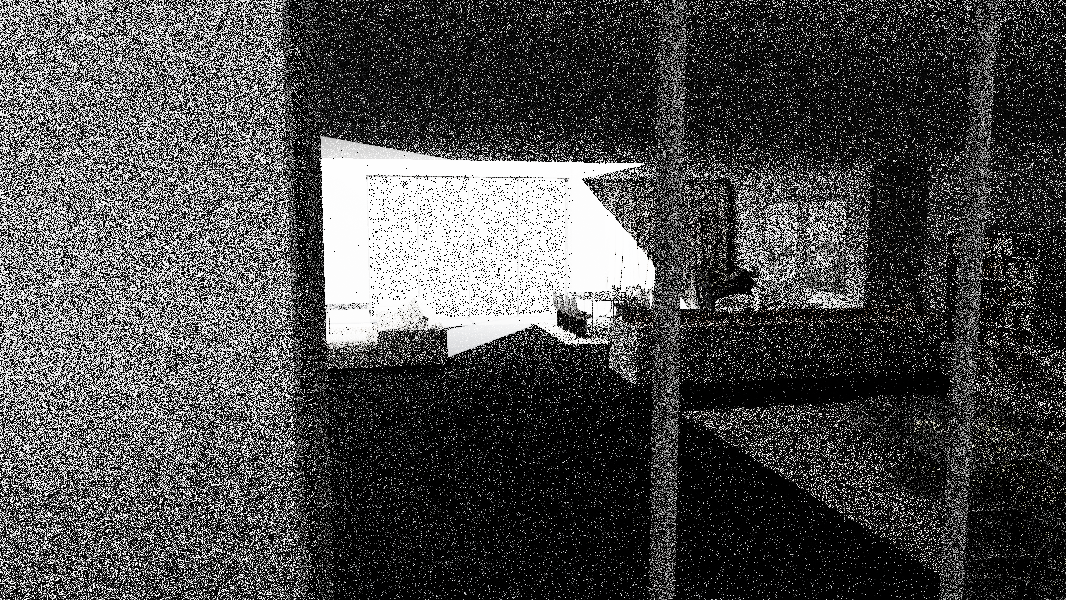
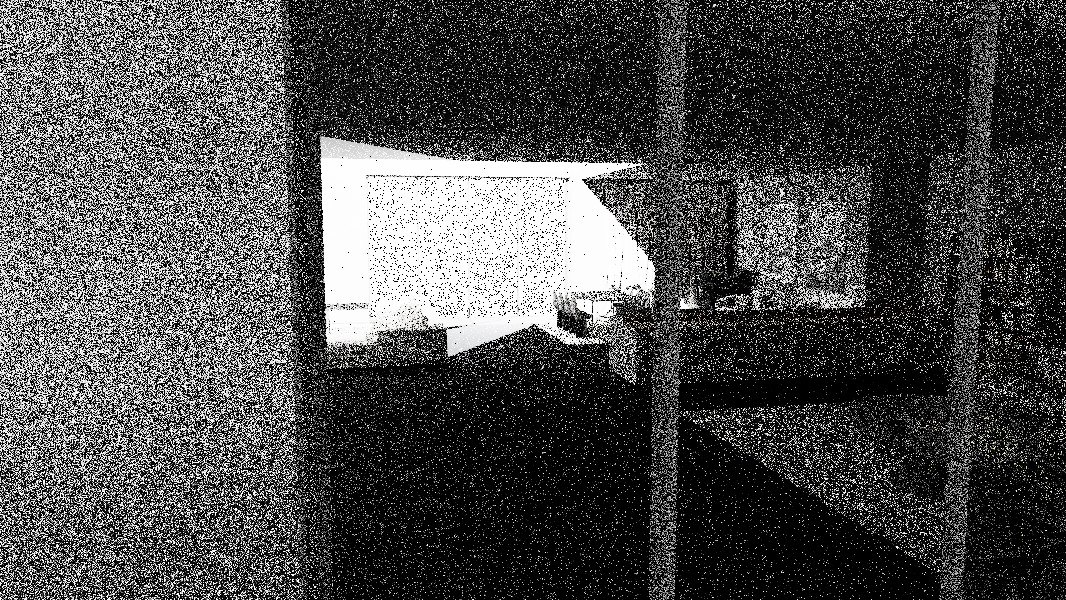
improve random samples generation to eliminate regular patterns in noises

diff --git a/src/camera.rs b/src/camera.rs
@@ -75,11 +75,6 @@ impl Camera {
         let mut data: Texture = Texture::new(width, self.height);
 
         let mut rng = Rng::new();
-        let mut offsets: Vec<DVec3> = Vec::with_capacity(self.sample_per_pixel as usize);
-        for _ in 0..self.sample_per_pixel {
-            let offset = delta_u * (rng.f64_inclusive() - 0.5) + delta_v * (rng.f64_inclusive() - 0.5);
-            offsets.push(offset);
-        }
 
         let mut pb = ProgressBar::new(self.height as u64);
         pb.show_counter = false;
@@ -94,16 +89,19 @@ impl Camera {
                     dir: viewport_upper_left + delta_v * v as f64,
                 };
 
-                let offsets = &offsets;
+                let mut rng = rng.fork();
                 s.spawn(move || {
                     for u in 0..width {
-                        let color = offsets.iter().fold(Vec3::ZERO, |acc, offset| {
+                        let mut color = Vec3::ZERO;
+                        for _ in 0..self.sample_per_pixel {
+                            let offset = delta_u * (rng.f64_inclusive() - 0.5) + delta_v * (rng.f64_inclusive() - 0.5);
                             let sample_ray = Ray {
                                 origin: self.pos,
-                                dir: view_ray.dir + *offset,
+                                dir: view_ray.dir + offset,
                             };
-                            acc + sample_ray.trace(self.max_depth, world, lights, self.background)
-                        }) / self.sample_per_pixel as f32;
+                            color += sample_ray.trace(self.max_depth, world, lights, self.background);
+                        }
+                        color /= self.sample_per_pixel as f32;
                         line[u as usize] = color.into();
 
                         view_ray.dir += delta_u;
